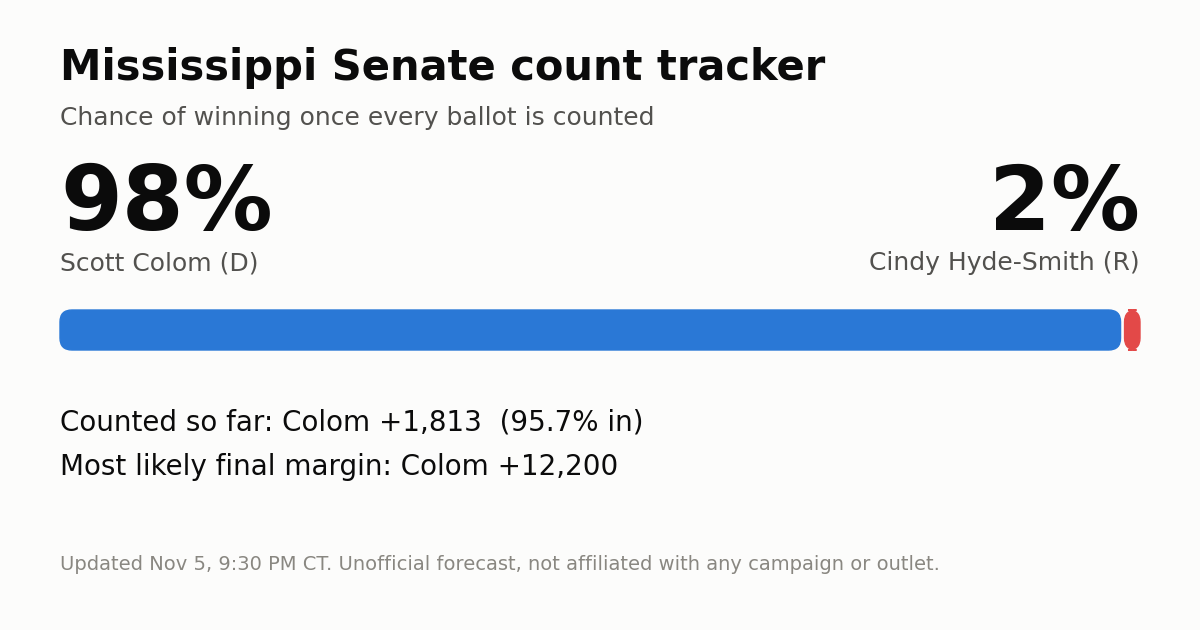
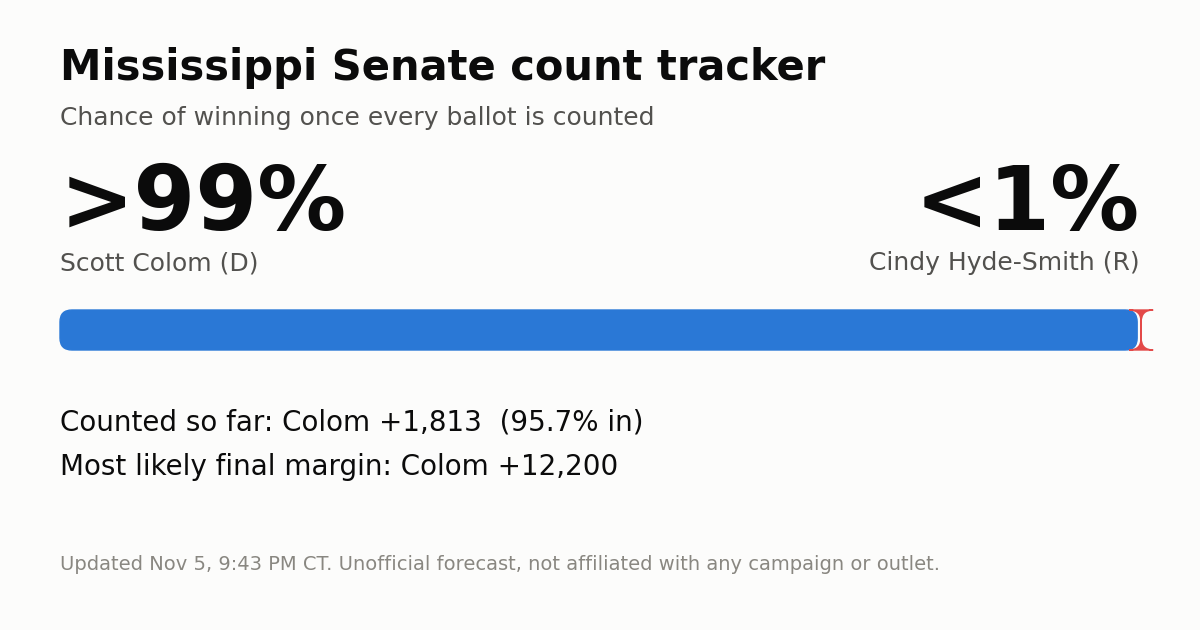
Update 2026-11-05T21:43-06:00

diff --git a/index.html b/index.html
@@ -197,8 +197,8 @@ svg text.halo{paint-order:stroke;stroke:var(--surface);stroke-width:3px;stroke-l
     <h2 id="h-how">How this works</h2>
     <p class="sub" style="margin-bottom:8px">Three kinds of ballots are still out. For each, the model estimates how many there are, where they are, and which way they lean, then counts them 200,000 different ways to see how often each candidate comes out ahead.</p>
     <ul class="watch">
-      <li><b>Ballots AP still expects</b> (absentee and Election Day ballots not yet counted). Assumed to lean like the votes already counted in the same county, adjusted by how the batches counted since Election Night have actually leaned, with room to break either way statewide.</li>
-      <li><b>Affidavit (provisional) ballots</b>, cast when a voter's eligibility is questioned at the polls. About 10,000 to 17,000 statewide and about 7 in 10 accepted, based on each county's record in Mississippi's last three federal elections (U.S. Election Assistance Commission data). Assumed to lean somewhat more Democratic than their county. Replaced with official county counts as clerks report them.</li>
+      <li><b>Ballots AP still expects</b> (absentee and Election Day ballots not yet counted). Assumed to lean like the votes already counted in the same county, adjusted by how the batches counted since Election Night have actually leaned, with room to break either way statewide. Where a county official has said how many ballots are left, that number replaces AP's estimate.</li>
+      <li><b>Affidavit (provisional) ballots</b>, cast when a voter's eligibility is questioned at the polls. About 10,000 to 17,000 statewide and about 7 in 10 accepted, based on each county's record in Mississippi's last three federal elections (U.S. Election Assistance Commission data). Assumed to lean somewhat more Democratic than their county. Replaced with official county counts as clerks report them, and not counted twice: AP's estimate already includes most of them.</li>
       <li><b>Late mail ballots</b> postmarked by Nov. 3 and arriving by Nov. 10: a share of the about 3,600 the Secretary of State says are still out. Very few.</li>
       <li><b>The model checks itself.</b> Each time a county reports, the model compares the new votes with what it expected, both how they leaned and how many there were, and adjusts. Early on its starting assumptions carry most of the weight; as more batches come in, the measured results take over.</li>
     </ul>
@@ -212,7 +212,7 @@ svg text.halo{paint-order:stroke;stroke:var(--surface);stroke-width:3px;stroke-l
     <a href="https://www.sos.ms.gov/elections-voting">Mississippi Secretary of State</a> ·
     <a href="https://mississippitoday.org/">Mississippi Today</a> ·
     <a href="https://www.mississippifreepress.org/">Mississippi Free Press</a><br>
-    <span id="pagever">Page version 01a47e5e</span>
+    <span id="pagever">Page version 641ad60a</span>
   </footer>
 </div>
 
@@ -229,7 +229,7 @@ function showTip(e, html){ tip.innerHTML = html; tip.style.opacity = 1;
 function hideTip(){ tip.style.opacity = 0; }
 const widthOf = svg => Math.max(280, svg.node().getBoundingClientRect().width || (svg.node().parentNode.clientWidth - 40));
 
-const PAGE_VERSION = "01a47e5e";
+const PAGE_VERSION = "641ad60a";
 
 function drawLog(L){
   const tb = document.querySelector("#logtbl tbody"), SHOW = 8;
@@ -266,9 +266,10 @@ function drawLog(L){
     try { await navigator.clipboard.writeText(url); sh.textContent = "Link copied"; } catch (e) { sh.textContent = url; }
     setTimeout(() => sh.textContent = "Share this page", 2500);
   };
-  const pd = Math.round(p * 100), pr = 100 - pd;
-  document.getElementById("p-dem").textContent = pd + "%";
-  document.getElementById("p-gop").textContent = pr + "%";
+  // Never show 100% / 0% for an uncalled race: past 99% it reads ">99%" / "<1%".
+  const pd = Math.min(99, Math.max(1, Math.round(p * 100))), pr = 100 - pd;
+  document.getElementById("p-dem").textContent = (p >= 0.995 ? ">" : p <= 0.005 ? "<" : "") + pd + "%";
+  document.getElementById("p-gop").textContent = (p <= 0.005 ? ">" : p >= 0.995 ? "<" : "") + pr + "%";
   document.getElementById("b-dem").style.width = pd + "%";
   document.getElementById("b-gop").style.width = pr + "%";
   document.getElementById("oddsbar").setAttribute("aria-label", `Colom ${pd} percent, Hyde-Smith ${pr} percent`);
